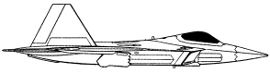
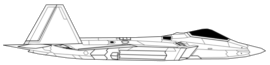
f22 new sprite

Changed region(s): [[0.0, 0.0308, 1.0, 0.9538]]

diff --git a/shilka2/Aircrafts.cs b/shilka2/Aircrafts.cs
@@ -77,7 +77,7 @@ namespace shilka2
             new AircraftsType {
                 aircraftType = "f22",
                 aircraftName = "F-22 Raptor",
-                size = new int[] { 270, 73 },
+                size = new int[] { 270, 65 },
                 price = 146,
                 speed = 14,
                 doesNotFlyInBadWeather = true
